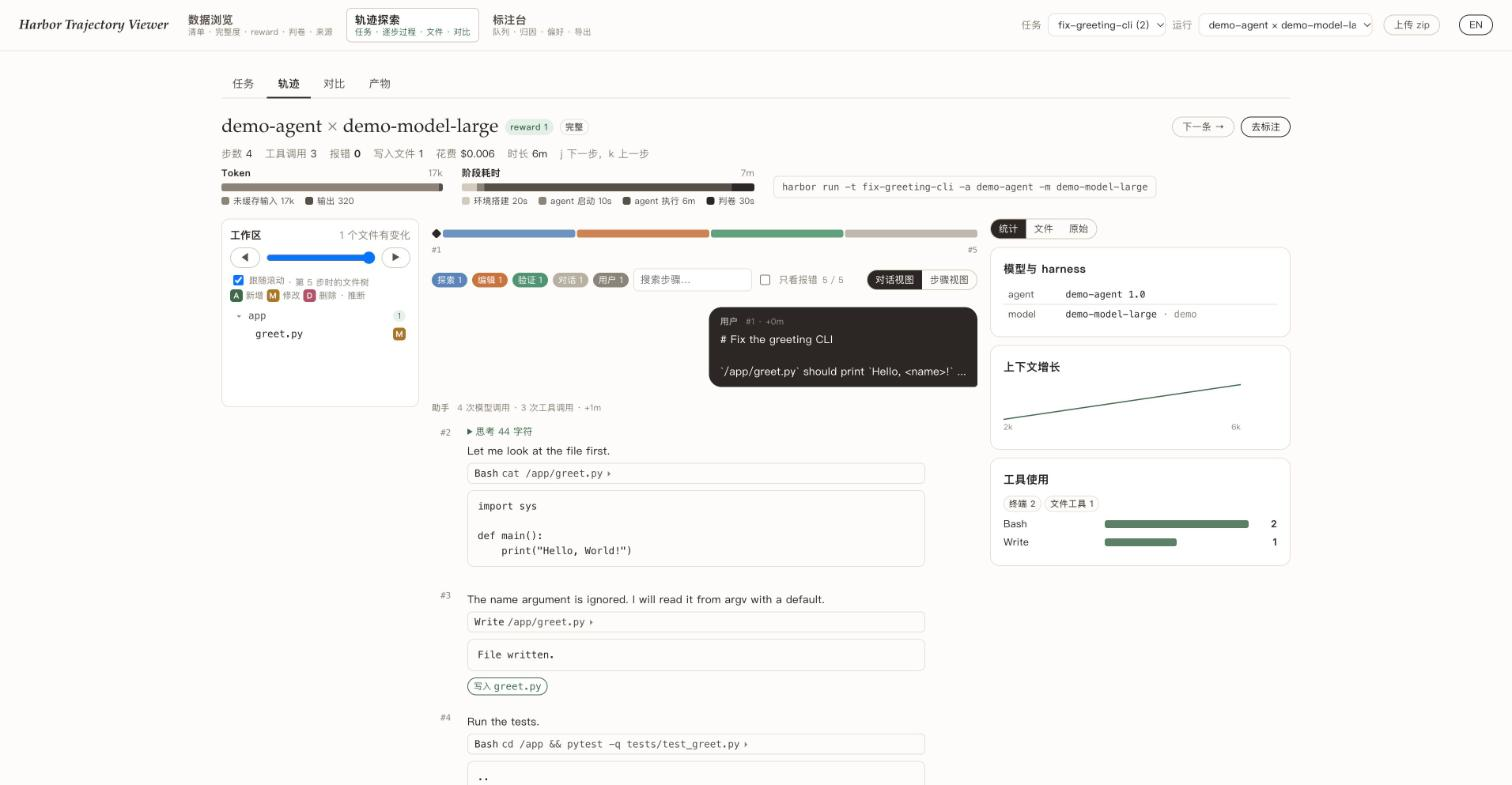
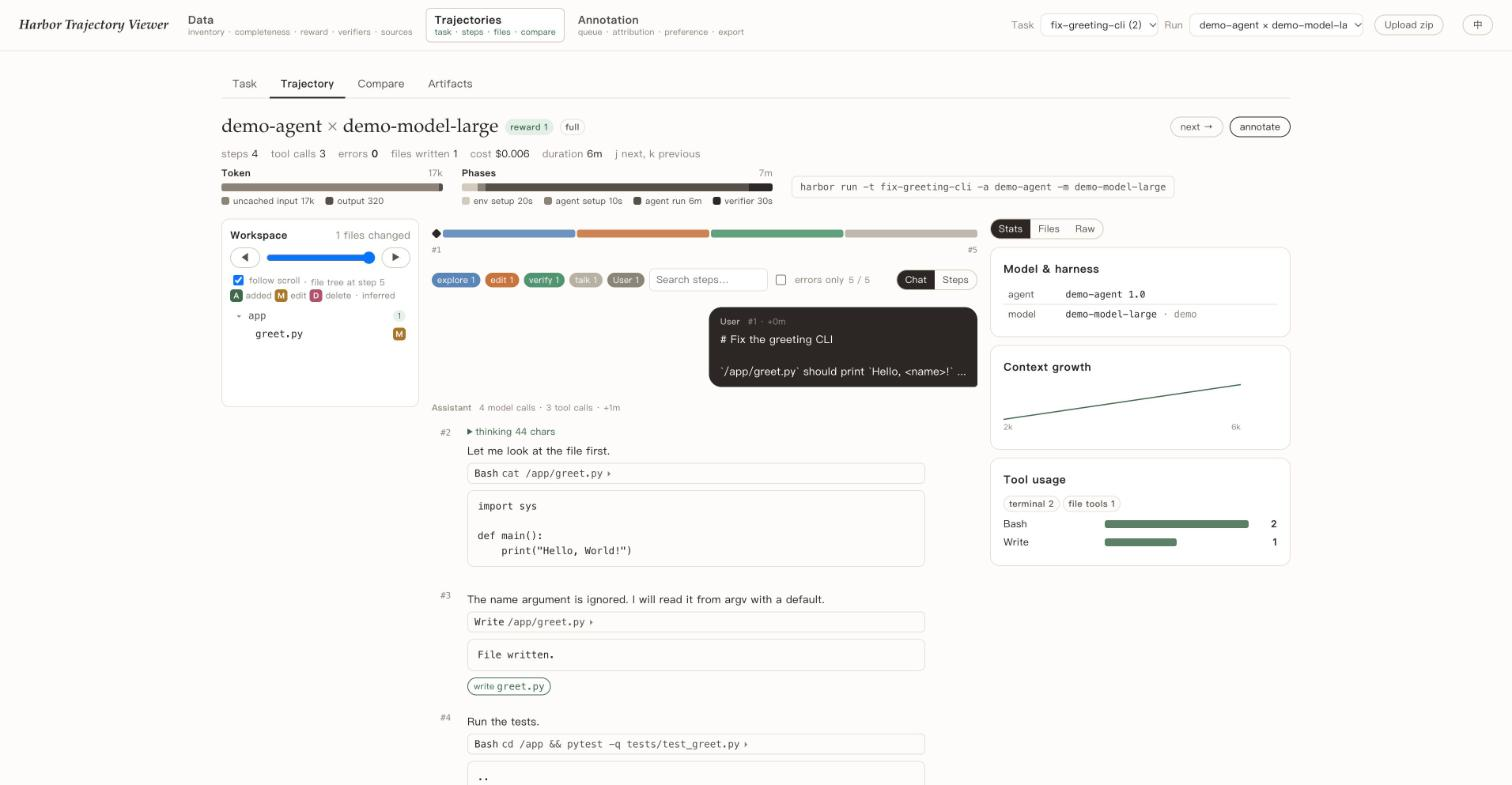
README in plain prose with English screenshot; restore dropped UI translations

diff --git a/src/lib/i18n.ts b/src/lib/i18n.ts
@@ -49,9 +49,26 @@ const EN: Record<string, string> = {
   // components/Timeline.tsx
   '写入文件': 'files written', '含报错': 'has errors', '可疑操作': 'suspicious actions',
   // components/Workspace.tsx
+  '工作区': 'Workspace', '{n} 个文件有变化': '{n} files changed', '拖动回放任意步骤时的文件状态': 'drag to replay the file state at any step',
+  '滚动对话时自动把文件树同步到视野中的那一步': 'while scrolling, sync the file tree to the step in view', '跟随滚动': 'follow scroll', '第 {n} 步时的文件树': 'file tree at step {n}', '新增': 'added',
+  '文件树由 Dockerfile 的 COPY 规则和轨迹中的写入推断，不是容器快照': 'The file tree is inferred from the Dockerfile COPY rules and the writes in the trajectory; it is not a container snapshot', '推断': 'inferred',
+  '没有可重建的文件：Dockerfile 无 COPY 规则且轨迹中无写入。': 'Nothing to rebuild: no COPY rules in the Dockerfile and no writes in the trajectory.',
   '在左侧文件树里选一个文件，或点击对话里的文件芯片。': 'Pick a file in the tree on the left, or click a file chip in the chat.', '初始文件': 'initial file', '替换': 'replace',
   '第 {i} 步后的内容（截至第 {n} 步）': 'content after step {i} (as of step {n})', '有后续修改未能应用': 'later edits could not be applied', '已删除': 'deleted',
   '初始内容（agent 开始前）': 'initial content (before the agent started)', '打开二进制文件': 'open binary file', '只有 shell 修改记录，没有内容快照。': 'Only shell edits recorded; no content snapshot.',
+  // lib/data.ts
+  '完整': 'full', '完整·转换': 'full (converted)', '概要': 'summary', '空': 'empty', '无法解析': 'unparsable', '终端': 'terminal', '文件工具': 'file tools', 'GUI 操作': 'GUI', '浏览器': 'browser',
+  'MCP / 自定义工具': 'MCP / custom tools', '改动了测试或判卷文件': 'edited test or verifier files', '写入了判卷输出': 'wrote verifier output', '翻看 git 历史': 'dug through git history', '跳过或屏蔽测试': 'skipped or masked tests',
+  '访问外网': 'reached the network', '单元测试': 'unit tests', '语言原生测试': 'language-native tests', '与标准答案文件比对': 'diff against oracle file', 'fail_to_pass 测试': 'fail-to-pass tests',
+  '终态 checklist 加权': 'weighted end-state checklist', '指标阈值判定': 'metric threshold', '结构检查脚本': 'structural checks', 'LLM judge 评审': 'LLM judge (rubric)', 'rubric 树评分': 'rubric tree (re-run)',
+  '逐 stage rubric 检查': 'per-stage rubrics', '模拟系统状态检查': 'mock-system state check', '运行 pytest 等单元测试，按通过情况给分': 'runs unit tests (pytest etc.) and scores by passes',
+  '运行仓库自带的测试命令（npm test / vitest / go test 等）': 'runs the repository\'s own test command (npm test / vitest / go test …)',
+  '把 agent 产出的文件与出题人提供的标准答案逐项比对': 'compares the produced file with the author\'s oracle, item by item',
+  'SWE-bench 式判定：指定的测试在修改前失败、修改后必须通过': 'SWE-bench style: named tests must fail before the change and pass after',
+  '用脚本读取最终状态，对照加权清单逐项打分': 'a script reads the end state and scores it against a weighted checklist', '计算一个指标（如成本或完工时间），与阈值比较': 'computes a metric (cost, makespan …) and compares it to a threshold',
+  '检查产出文件的结构是否齐全（工作表、列名、章节等）': 'checks the structure of the output (sheets, columns, sections …)', '由大模型按 rubric 评审产出质量': 'an LLM grades the output against a rubric',
+  '重跑复现脚本后按 rubric 树逐项打分': 're-runs the reproduction script, then scores a rubric tree', '多阶段任务，每个阶段一组程序化检查': 'multi-stage task with programmatic checks per stage',
+  '检查模拟系统（邮件、数据库等）的最终状态': 'checks the final state of mock systems (mail, databases …)',
   // lib/annotations.ts
   '主要失败模式': 'primary failure mode', '违反任务要求': 'violated the spec', '重复无效步骤': 'repeated futile steps', '未察觉应当结束': 'unaware it should stop', '上下文丢失': 'lost context', '过早终止': 'stopped too early',
   '未做验证或验证无关': 'no or irrelevant verification', '推理与行动不一致': 'reasoning–action mismatch', '验证不充分': 'weak', '根因类别': 'root-cause class', '认知：信息缺失或误判': 'epistemic: missing or wrong information',
@@ -62,16 +79,17 @@ const EN: Record<string, string> = {
   // lib/zipSource.ts
   'zip 里没有文件': 'the zip contains no files', '已解析 {n} 个文本文件…': '{n} text files parsed…', '归一化…': 'Normalising…',
   // pages/Overview.tsx
+  '无判分': 'unscored', '通过': 'pass', '均值': 'mean',
   '每次运行的轨迹文件：完整 = 逐步轨迹；概要 = 只有几步概要；空 = 没有轨迹只有分数': 'trajectory file per run: full = step-by-step; summary = a few summarised steps; empty = no trajectory, only a score', '轨迹完整': 'full trajectories',
-  '轨迹': 'Trajectory', '完整': 'full', '概要': 'summary', '空': 'empty', '来源：数据包清单中的提供方，或 task.toml 的作者': 'source: the provider named in the pack manifest, or the task.toml authors', '{n} 次运行': '{n} runs',
-  '{n} 个产物': '{n} artifacts', '{a} 个任务 · {b} 次运行 · 生成于 {c}': '{a} tasks · {b} runs · generated {c}', '有完整轨迹的运行': 'runs with a full trajectory',
+  '轨迹': 'Trajectory', '来源：数据包清单中的提供方，或 task.toml 的作者': 'source: the provider named in the pack manifest, or the task.toml authors', '{n} 次运行': '{n} runs', '{n} 个产物': '{n} artifacts',
+  '{a} 个任务 · {b} 次运行 · 生成于 {c}': '{a} tasks · {b} runs · generated {c}', '有完整轨迹的运行': 'runs with a full trajectory',
   'reward：满分 {a} · 部分 {b} · 零分 {c} · 无判分 {d}': 'reward: full {a} · partial {b} · zero {c} · unscored {d}', '平均 reward，先按任务平均（{n} 个有判分任务）': 'mean reward, averaged per task first ({n} scored tasks)',
   '二值任务和分数任务一起平均，只作粗略参考': 'binary and graded tasks averaged together; a rough figure only', '输入 token（仅完整轨迹）': 'input tokens (full trajectories only)', '花费（仅有记录的运行）': 'cost (runs with a record only)',
-  '筛选任务…': 'Filter tasks…', '排序': 'sort', '运行数': 'runs', '名称': 'name', '每个方块一次运行：': 'one square per run:', '最高': 'highest', '中间': 'middle', '最低': 'lowest', '无判分': 'unscored', '未分类': 'uncategorized',
+  '筛选任务…': 'Filter tasks…', '排序': 'sort', '运行数': 'runs', '名称': 'name', '每个方块一次运行：': 'one square per run:', '最高': 'highest', '中间': 'middle', '最低': 'lowest', '未分类': 'uncategorized',
   '{a} 个任务 · {b} 次运行': '{a} tasks · {b} runs', '没有任务。': 'No tasks.',
   // pages/Quality.tsx
-  '完整轨迹': 'full trajectories', '对话格式（已转换）': 'conversation format (converted)', '只有概要': 'summary only', '空文件': 'empty files', '无法解析': 'unparsable', '未知': 'unknown',
-  '按任务计数（前 8）': 'count by task (top 8)', '明细': 'details', '无法解析的轨迹': 'unparsable trajectories', '轨迹文件不是合法 JSON。': 'The trajectory file is not valid JSON.', 'agent 字段冲突': 'agent field conflicts',
+  '完整轨迹': 'full trajectories', '对话格式（已转换）': 'conversation format (converted)', '只有概要': 'summary only', '空文件': 'empty files', '未知': 'unknown', '按任务计数（前 8）': 'count by task (top 8)', '明细': 'details',
+  '无法解析的轨迹': 'unparsable trajectories', '轨迹文件不是合法 JSON。': 'The trajectory file is not valid JSON.', 'agent 字段冲突': 'agent field conflicts',
   'config.json 里写的 agent 与轨迹文件实际记录的 agent 不一致。以轨迹为准。': 'The agent in config.json differs from the one recorded in the trajectory. The trajectory wins.', '无 reward 的运行': 'runs without reward',
   '没有判分结果。': 'No verifier result.', '零区分度任务': 'zero-spread tasks', '所有有判分的运行得分相同。': 'Every scored run has the same reward.', '运行时异常': 'runtime exceptions',
   'result.json 里有 exception_info。': 'result.json carries exception_info.', '缺少任务定义': 'missing task definitions',
@@ -79,16 +97,21 @@ const EN: Record<string, string> = {
   '逐任务': 'Per task', '搜索…': 'Search…', '问题数': 'issues', '完整比例': 'full ratio', '来源': 'source', '轨迹文件': 'trajectory files', '平均 reward': 'mean reward', '未发现': 'not found',
   // pages/Check.tsx
   '每个任务的 reward 分布与区分度': 'Reward distribution and spread per task', '区分度是 reward 的标准差。为 0 的任务无法区分运行。': 'Spread is the standard deviation of reward. A task at 0 cannot tell its runs apart.',
-  '有判分': 'scored', '均值': 'mean', '标准差': 'std', '区间': 'range', '分布': 'distribution', '判断': 'verdict', '单次运行': 'single run', '无区分度': 'no spread', '弱': 'weak', '有信号': 'signal',
-  '成本 vs reward': 'Cost vs reward', '每点一次运行，横轴对数刻度，颜色为任务': 'one point per run, log-scale x, color = task', '没有运行带有成本数据。': 'No run has cost data.', '{n} 次运行有成本数据。': '{n} runs have cost data.',
+  '有判分': 'scored', '标准差': 'std', '区间': 'range', '分布': 'distribution', '判断': 'verdict', '单次运行': 'single run', '无区分度': 'no spread', '弱': 'weak', '有信号': 'signal', '成本 vs reward': 'Cost vs reward',
+  '每点一次运行，横轴对数刻度，颜色为任务': 'one point per run, log-scale x, color = task', '没有运行带有成本数据。': 'No run has cost data.', '{n} 次运行有成本数据。': '{n} runs have cost data.', '0/1 二值': 'binary 0/1', '分数': 'score',
+  '判卷方式': 'How rewards are produced',
+  'reward 由任务的 tests/ 在 agent 结束后产生。下表的机制由文件名推断，可能不全；点任务可看原始判卷脚本。': 'Rewards are produced by the task\'s tests/ after the agent finishes. The mechanisms below are inferred from file names and may be incomplete; open a task to see the verifier script.',
+  '分数形态': 'score shape', '判卷机制': 'mechanism', 'LLM 参与': 'LLM judge', '判卷时限': 'verifier time limit', '命名分数': 'named rewards', '未识别': 'unrecognized', '是': 'yes', '否': 'no', '术语说明': 'Glossary',
+  'task.toml 的 verifier.timeout_sec：判卷脚本允许运行的最长时间': 'verifier.timeout_sec in task.toml: how long the verifier script may run', 'agent 运行时限': 'agent time limit',
+  'task.toml 的 agent.timeout_sec：Harbor 允许 agent 运行的最长时间，超过即终止本次运行': 'agent.timeout_sec in task.toml: how long Harbor lets the agent run before the run is killed', '未知来源': 'unknown source',
+  '按来源': 'By source', '每个来源的数据质量与人审结果。': 'Data quality and human verdicts per source.', '无 reward': 'no reward', 'agent 冲突': 'agent conflicts', '已标注': 'annotated', '人审结论': 'human verdicts',
+  '判卷有问题': 'verifier issues', '正确': 'correct', '错误': 'incorrect', '清单': 'Inventory', '信号': 'signals', '判卷': 'verifier',
   // pages/Task.tsx
   'agent × model 矩阵': 'agent × model matrix', '每个方块一次运行，点击进入轨迹': 'one square per run; click to open the trajectory', '运行列表': 'Runs', '点表头排序，点行进入轨迹': 'click a header to sort, a row to open',
   '步数': 'steps', '工具调用': 'tool calls', '报错': 'errors', '输入 token': 'input tokens', '花费': 'cost', '时长': 'duration', '产物': 'Artifacts', '冲突': 'conflict',
   'Dockerfile 里没有 COPY / ADD 规则，起始文件系统无法从任务定义推断。': 'The Dockerfile has no COPY / ADD rules; the initial file system cannot be inferred from the task definition.', '工作目录': 'working directory',
   '容器内路径': 'container paths', 'solution/ 与 tests/ 对 agent 不可见。': 'solution/ and tests/ are invisible to the agent.', '选择左侧文件查看 agent 开始时看到的内容': 'select a file to see what the agent saw at the start',
-  '未找到任务': 'task not found', '类别': 'category', '难度': 'difficulty', '模态': 'modality', '取自': 'from', '判卷': 'verifier', '由 tests/ 目录的文件名推断': 'inferred from the file names in tests/',
-  'agent 运行时限': 'agent time limit', 'task.toml 的 agent.timeout_sec：Harbor 允许 agent 运行的最长时间，超过即终止本次运行': 'agent.timeout_sec in task.toml: how long Harbor lets the agent run before the run is killed',
-  '判卷时限': 'verifier time limit', 'task.toml 的 verifier.timeout_sec：判卷脚本允许运行的最长时间': 'verifier.timeout_sec in task.toml: how long the verifier script may run', '题面 instruction.md': 'instruction.md',
+  '未找到任务': 'task not found', '类别': 'category', '难度': 'difficulty', '模态': 'modality', '取自': 'from', '由 tests/ 目录的文件名推断': 'inferred from the file names in tests/', '题面 instruction.md': 'instruction.md',
   '元信息 task.toml': 'metadata (task.toml)', '文件': 'Files', '没有任务目录。': 'No task directory.', '无 instruction.md': 'no instruction.md', '原始 task.toml': 'raw task.toml', '（无 task.toml）': '(no task.toml)',
   '任务目录': 'Task directory', 'agent 看到的容器文件': 'Container files as the agent saw them', '原始目录，含参考解与判卷程序': 'the original directory, with the reference solution and the verifier',
   '按 Dockerfile 的 COPY / ADD / WORKDIR 推断的起始文件布局': 'initial file layout inferred from the Dockerfile COPY / ADD / WORKDIR',
@@ -98,8 +121,8 @@ const EN: Record<string, string> = {
   // pages/Explore.tsx
   '对比': 'Compare', '第二条运行': 'a second run',
   // pages/Job.tsx
-  '无逐步 token 数据': 'no per-step token data', '正确': 'correct', '错误': 'incorrect', '存疑': 'unclear', '是': 'yes', '否': 'no', '保存失败': 'save failed', '保存中…': 'saving…', '已保存': 'saved',
-  '运行级标注': 'Run annotation', '结论：agent 是否真的完成了任务': 'verdict: did the agent actually complete the task', '判卷审计：reward 与实际是否一致': 'verifier audit: does the reward match what actually happened',
+  '无逐步 token 数据': 'no per-step token data', '存疑': 'unclear', '保存失败': 'save failed', '保存中…': 'saving…', '已保存': 'saved', '运行级标注': 'Run annotation',
+  '结论：agent 是否真的完成了任务': 'verdict: did the agent actually complete the task', '判卷审计：reward 与实际是否一致': 'verifier audit: does the reward match what actually happened',
   '三个步号：决定性错误发生在哪一步；从哪一步起已无法挽回；从哪一步起从输出里能看出不对': 'three step numbers: where the decisive error happened; from which step it became unrecoverable; from which step the output made it visible',
   '失败定位': 'failure localisation', '首个错误': 'first error', '无法挽回': 'lock-in', '首次可见': 'first visible', '是否钻了判卷的空子': 'did the run game the verifier', '证据步': 'evidence step',
   '验证质量': 'verification quality', '陷入重复循环': 'stuck in a loop', '多余或有副作用的操作': 'unnecessary or side-effect actions', '原始数据': 'Raw data', '子 agent 轨迹': 'subagent trajectories', '步': 'steps',
@@ -124,10 +147,9 @@ const EN: Record<string, string> = {
   '两条运行的 agent 或模型不同，自动分歧点只比较工具动作，参考意义有限。': 'The two runs use a different agent or model; the automatic divergence only compares tool actions and means little here.', '写入文件对照': 'Files written',
   '两条都没有可识别的写入': 'no recognizable writes in either run',
   // pages/Annotate.tsx
-  '全部 reward': 'all rewards', '0 到 1 之间': 'between 0 and 1', '有轨迹': 'with trajectory', '全部轨迹': 'all trajectories', '全部状态': 'all states', '未标注': 'unannotated', '已标注': 'annotated',
-  '按信号排序': 'sort by signals', '按 reward 排序': 'sort by reward', '按任务排序': 'sort by task', '下一条未标注': 'next unannotated', '信号': 'signals', '步骤标注': 'step labels', '状态': 'state', '结论': 'verdict',
-  '归因': 'attribution', '重复': 'repeats', '可疑': 'suspicious', '没有符合条件的运行。': 'No runs match.', '尚无数据': 'no data yet',
-  '{a} 条运行标注 · {b} 个步骤标注 · {c} 组偏好': '{a} run annotations · {b} step labels · {c} preferences', '导出 JSONL': 'Export JSONL', 'stepwise reward 分布': 'stepwise reward distribution',
-  '判卷审计': 'verifier audit', '步骤旗标': 'Step flags', '已标注运行': 'Annotated runs', '首个错误 / 无法挽回 / 首次可见': 'first error / lock-in / first visible', '钻空子': 'gaming', '还没有标注。': 'No annotations yet.',
-  '队列': 'Queue', '运行标注': 'Annotate run', '统计与导出': 'Stats & export', '任务与运行': 'a task and a run',
+  '全部 reward': 'all rewards', '0 到 1 之间': 'between 0 and 1', '有轨迹': 'with trajectory', '全部轨迹': 'all trajectories', '全部状态': 'all states', '未标注': 'unannotated', '按信号排序': 'sort by signals',
+  '按 reward 排序': 'sort by reward', '按任务排序': 'sort by task', '下一条未标注': 'next unannotated', '步骤标注': 'step labels', '状态': 'state', '结论': 'verdict', '归因': 'attribution', '重复': 'repeats',
+  '可疑': 'suspicious', '没有符合条件的运行。': 'No runs match.', '尚无数据': 'no data yet', '{a} 条运行标注 · {b} 个步骤标注 · {c} 组偏好': '{a} run annotations · {b} step labels · {c} preferences', '导出 JSONL': 'Export JSONL',
+  'stepwise reward 分布': 'stepwise reward distribution', '判卷审计': 'verifier audit', '步骤旗标': 'Step flags', '已标注运行': 'Annotated runs', '首个错误 / 无法挽回 / 首次可见': 'first error / lock-in / first visible',
+  '钻空子': 'gaming', '还没有标注。': 'No annotations yet.', '队列': 'Queue', '运行标注': 'Annotate run', '统计与导出': 'Stats & export', '任务与运行': 'a task and a run',
 };

diff --git a/README.md b/README.md
@@ -1,7 +1,7 @@
 # Harbor Trajectory Viewer
 
-Browse, audit and annotate [Harbor](https://harborframework.com) tasks and
-[ATIF](https://docs.harborframework.com/agents/atif) agent trajectories, locally.
+A local web app for browsing, auditing and annotating [Harbor](https://harborframework.com) tasks and
+[ATIF](https://docs.harborframework.com/agents/atif) agent trajectories.
 
 ![trajectory page](docs/trajectory.jpg)
 
@@ -9,49 +9,55 @@ Browse, audit and annotate [Harbor](https://harborframework.com) tasks and
 
 ```bash
 npm install
-npm run ingest                       # normalises examples/demo-pack into data/
-npm run dev                          # http://localhost:5173
+npm run ingest        # normalises examples/demo-pack into data/
+npm run dev           # http://localhost:5173
 ```
 
-To use your own data: `node scripts/ingest.mjs <dir>`, where `<dir>` is either a pack
-(`tasks/<task>/jobs/<job>/`) or a Harbor jobs directory (`jobs/<job>/<trial>/`, add `--tasks <dir>`).
-The *Upload zip* button does the same for a zip, inside the browser.
-`npm run share` opens a public URL through a Cloudflare tunnel.
+To load your own data, run `node scripts/ingest.mjs <dir>`. The directory can be a pack
+(`tasks/<task>/jobs/<job>/`) or a Harbor jobs directory (`jobs/<job>/<trial>/`, with `--tasks <dir>`
+pointing at the task definitions). The "Upload zip" button does the same for a zip file, inside the
+browser. `npm run share` publishes the local server through a Cloudflare tunnel.
 
-## What is in it
+## Pages
 
-**Data** — task cards, import issues (missing or unparsable trajectories, missing rewards, agent metadata
-conflicts, exceptions), reward spread per task, how each task is graded, roll-up by data source.
+**Data.** Task cards, import issues (missing or unparsable trajectories, missing rewards, agent metadata
+conflicts, exceptions), reward spread per task, how each task is graded, totals by data source.
 
-**Trajectories** — task definition with the container file system as the agent saw it; a chat-style replay of
-each run with a file tree that follows the current step, a file pane with content and diffs, a phase timeline,
-subagent trajectories, and the raw `result.json` / trajectory metadata; side-by-side comparison of two runs
-with their first divergence point; artifact preview (images, video, audio, PDF, xlsx, docx).
+**Trajectories.** The task definition and the container file system as the agent saw it. A chat-style
+replay of each run, with a file tree that follows the current step, a file pane with content and diffs,
+a phase timeline, subagent trajectories, and the raw result and trajectory metadata. Side-by-side
+comparison of two runs with their first divergence point. Artifact preview for images, video, audio,
+PDF, xlsx and docx.
 
-**Annotation** — per run: verdict, verifier audit, failure localisation (first error / point of no return /
-first visible symptom), reward gaming, verification quality, loops, side effects, configurable axes, notes.
-Per step: a numeric stepwise reward, a flag, a note. Per pair: preference and decisive divergence step.
-Queue with filters, statistics, JSONL export. Labels are stored per dataset in `annotations/` (or in the
-browser for uploaded zips); the axes are configurable in the same file.
+**Annotation.** Per run: a verdict, a verifier audit, failure localisation (first error, point of no
+return, first visible symptom), reward gaming, verification quality, loops, side effects, configurable
+axes and notes. Per step: a numeric stepwise reward, a flag and a note. Per pair of runs: a preference
+and the decisive divergence step. A queue with filters, statistics and JSONL export. Labels are stored
+per dataset in `annotations/`, or in the browser for uploaded zips. The axes can be edited in the same
+file.
 
-The normaliser (`src/lib/normalize.js`) reads ATIF 1.0–1.8 including multimodal parts and subagent
-trajectories, Harbor `result.json`, `ctrf.json` test results and Dockerfiles. Step kinds, file writes,
-repeated actions and actions worth a second look (test or verifier edits, git history reads, skipped tests,
-public network access) are heuristics derived from tool calls and shell commands, and are labelled as such.
+The interface is available in Chinese and English.
 
-Interface in Chinese and English. Data is never translated.
+## Parsing
+
+`src/lib/normalize.js` reads ATIF 1.0 to 1.8, including multimodal parts and subagent trajectories,
+Harbor `result.json`, `ctrf.json` test results and Dockerfiles. Step kinds, file writes, repeated
+actions and suspicious actions (edits to tests or the verifier, git history reads, skipped tests, public
+network access) are inferred from tool calls and shell commands, and the interface marks them as
+inferred.
 
 ## Limitations
 
-- The file tree is reconstructed from the Dockerfile and the agent's own writes. Content produced by shell
-  commands is not known, and the pane says so when it shows a stale version.
-- Annotations are written by the dev server to a local file. There is no multi-user store.
-- Zips are parsed on the main thread, and long trajectories are rendered in full. Packs with thousands of
-  runs are paginated, but a single run of several thousand steps will be slow.
+- The file tree is rebuilt from the Dockerfile and the agent's own writes. Files produced by shell
+  commands are unknown, and the file pane says when it is showing an older version.
+- Annotations are written to a local file by the dev server. There is no multi-user store.
+- Zips are parsed on the main thread and long trajectories are rendered in full. Large packs are
+  paginated, but a single run with thousands of steps will be slow.
 
 ## Acknowledgements
 
-[ATIF-trajectory-viewer](https://github.com/Slimshilin/ATIF-trajectory-viewer) and the
-[Harbor job viewer](https://docs.harborframework.com/results/view-job-results).
+[ATIF-trajectory-viewer](https://github.com/Slimshilin/ATIF-trajectory-viewer),
+the [Harbor job viewer](https://docs.harborframework.com/results/view-job-results)
+and [osverify.github.io](https://osverify.github.io/).
 
 MIT License.
